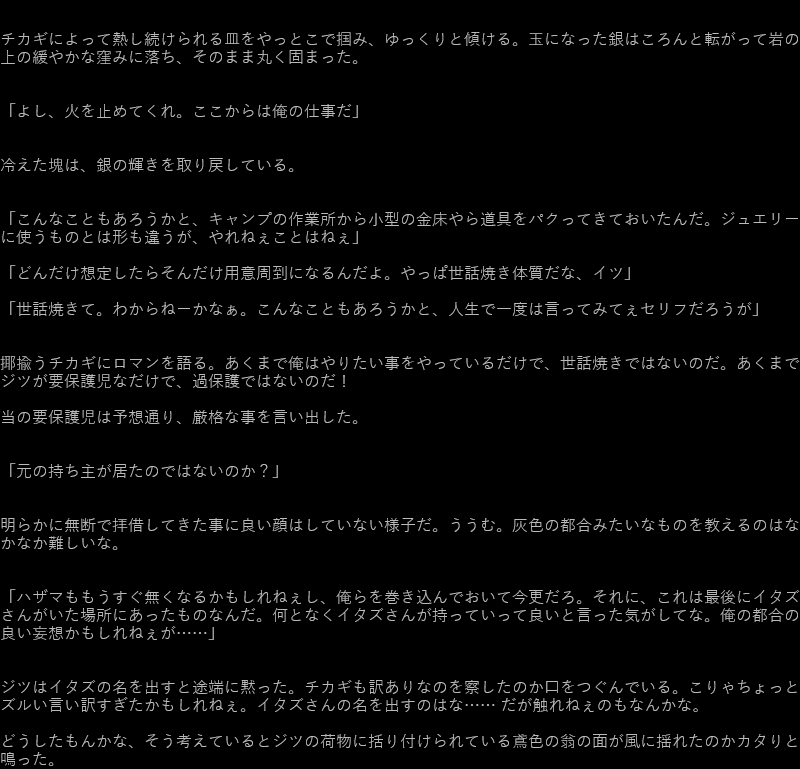
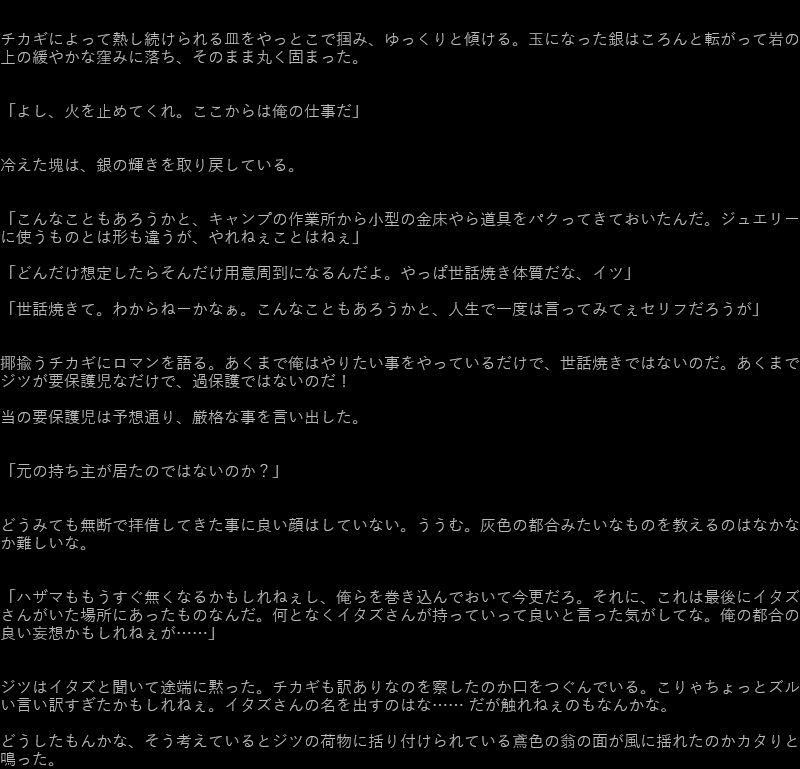
推敲

diff --git a/okiba/995/36/index.html b/okiba/995/36/index.html
@@ -63,7 +63,7 @@ body {
 
 神メロン。未知のすごいメロンのどの部位を誰が食べるのか…… それを決めるためにちょっとしたクジをした俺たちだが、この立つのもダルそうな男が一等を引き、続いてジツ、俺とは言えば最下位。
 
-こいつはクジを引くときには興味ないねみたいな顔をしていたくせに、今の様子を見ると満更でもなさそうだ。
+こいつはクジを引くときには興味ないねみたいな顔をしていたくせに、今の調子を見ると満更でもなさそうだ。
 
 ジツはその隣に座り、チカギがメロンの一番旨そうな部分を食べているのをじっと見ている。文句は言わない。思えばジツも感情豊かになったものだ。それとも俺がこいつの僅かな変化に気づくようになっただけだろうか。
 
@@ -86,11 +86,10 @@ body {
 「ほー？ よく分かんねーけど面白そうじゃん。」
 
 
-チカギが身を乗り出してくる。考えていたよりも興味あり気な様子だ。対してジツはいつもの調子でストレートに疑問を口にした。
+チカギが身を乗り出してくる。思っていたより興味ありそうな感じだ。対してジツはいつもの調子でストレートに疑問を口にした。
 
 
-「……異能を使わずに？　
-　凝った物を欲してる訳ではないが、何故、不要な労力を費やす？」
+「……異能を使わずに？ 凝った物を欲してる訳ではないが、何故、不要な労力を費やす？」
 
 
 不要な労力か。そこには多少物言いたい気持ちもあるが、くどくど説明するより経験して貰えばいいことだ。
@@ -139,7 +138,7 @@ body {
 「え、いいのかそれ、大事なモンじゃ……」
 
 
-ジツはうつむいたまま平坦な声で、チカギはあからさまに焦りを露わにして俺に問う。対照的な二人に、俺は努めていつもの調子で答えた。
+ジツは顔を伏せたまま平坦な声で、チカギはあからさまに焦りを露わにして俺に問う。対照的な二人に、俺は努めていつもの調子で答えた。
 
 
 「ああ、大事にしているツノの輪は残すし、高価なもんじゃねぇ。銀と、僅かの銅。一般的な銀の合金だ。純粋な銀ってのは柔らかすぎるからな」
@@ -220,9 +219,7 @@ body {
 
 
 
-無骨な皿を取り出して岩の上に置き、周囲を適当な岩でがっしりと囲む。この旅で何度も組んできた、焚火のかまどのように。
-
-この皿はリーゼント騒ぎの時に焼き物連中の所から拾ったものだ。クソ頑丈で都合よく釉でコーティングもされている。
+無骨な皿を取り出して岩の上に置き、周囲を適当な岩でがっしりと囲む。この旅で何度も組んできた、焚火のかまどのように。この皿はリーゼント騒ぎの時に焼き物連中の所から拾ったものだ。クソ頑丈で都合よく釉でコーティングもされている。
 
 次に金槌で先の戦闘で手に入れたハザマの生き物の牙を砕く。白い粉のようになった残骸を皿の上にほんの少しつまんだ。
 
@@ -239,7 +236,7 @@ body {
 チカギは作業する俺の手元をまじまじと見つめている。
 
 
-「そうだな、あんま良いの持ってねーし。さっき俺らで倒した蜥蜴の、ジツが剥いだ鱗かな。ほら、寄越せ。」
+「そうだな、あんま良いの持ってねーし。さっき俺らで倒した蜥蜴の、ジツが剥いだ鱗かな。ほら、寄越せ」
 
 
 ああ、あれか。
@@ -256,11 +253,9 @@ body {
 「あれなーー！忘れようがねぇぜ。未だに意味わからんもんアレ……」
 </div><div class="grid">
 
-マジで色々ありすぎたな、ハザマ……。あっさりとジツからチカギに渡された鱗を見れば確かにあのコイのものによく似ている。
+マジで色々ありすぎたな、ハザマ……。あっさりとジツからチカギに渡された鱗を見ると確かにあのコイのものによく似ている。
 
-チカギが指先に小さな火を灯し、鱗を照らす。光が四方八方に反射され煌めきを放った。
-
-「こうすると」と、光をさらに散らせるように鱗を揺らす。光の粒がそこらを走り回った。なんだっけ、サンキャッチャーか。あれっぽい。
+チカギが指先に小さな火を灯し、鱗を照らす。反射された光が煌めきとなってあたりに散らばった。タクトを振るうように腕を踊らせれば、光の粒がそこら中を飛び跳ね回る。なんだっけ、サンキャッチャーか。あれっぽい。
 
 
 「なんかさ、さっきイツがやってた……キラキラしてた異能？ 似てんなーと思ってさ」
@@ -296,11 +291,13 @@ body {
 「そいつの封を解いたら、二度と元には戻せない。花はまた時間を取り戻して生き始める。いずれ枯れて種を作る。それがどういうことか、わかってるんだろうな？」
 
 
-俺に責め立てられて、ジツは言葉を少しずつ紡いだ。
+気がつけば、俺はジツを責め立ていた。
+自分の口から出てしまった言葉の強さに驚いてはっとする。
+無音が二人の間を満たすと、ジツは言葉を少しずつ紡いだ。
 
 
 「……この世界が幻なのか、実在するのかは分からない。
-　だが、あるべき物はあるがままにするのなら────この花はこの世界に残して行かないといけないのだろう」
+　だが、あるべき物はあるがままにするのなら──この花はこの世界に残して行かないといけないのだろう」
 
 
 それは初めは、小さな声だった。だが、決して聞き間違えではない。
@@ -328,13 +325,13 @@ body {
 ふ、と笑いが溢れる。確かに、こんなんじゃチカギに過保護言われるのも仕方ねぇかもな。
 </div><div class="grid">
 
-「でも、そんなことはなかったんだな。正直安心した、ってのはおかしいか。ま、ジツがそうしたいと思う事を言ってくれて俺は嬉しいよ。もちろん、そいつの葉は少し頂いて銀に混ぜよう」
+「でも、そんなことはなかったんだな。正直安心した、ってのはおかしいか。ま、ジツがそうしたいと思う事を伝えてくれて俺は嬉しいよ。もちろん、そいつの葉は少し頂いて銀に混ぜよう」
 
 
 あたりを見回して考える。
 
 
-「そうだな、浜に植えたんじゃ塩で枯れちまうからな。この森ならいい感じなんじゃねぇか？」
+「植える場所も探さねぇとな。浜に植えたんじゃ塩で枯れちまう。この森ならいい感じなんじゃねぇか？」
 
 
 
@@ -351,7 +348,7 @@ body {
 俺に問われてチカギは自信ありげに答える。
 
 
-「ん。よく分かってんじゃん？　得意も得意。つってもこのハザマに来てから身に付いた異能だから、あんまり調節はやったこと無いな」
+「ん。よく分かってんじゃん？ 得意も得意。つってもこのハザマに来てから身に付いた異能だから、あんまり調節はやったこと無いな」
 
 
 ハザマでは俺の元の世界で使えていた術の体系はかなり制限されてしまっている。ここにはガスバーナーのような器具も高度な魔道具もなければ、俺は元々熱を扱う術が得意ではない。そのせいか異能としても殆ど扱えない。
@@ -365,7 +362,7 @@ body {
 「930℃って言われても分かんねーよ。青……とにかく青ければ良いか。」
 </div><div class="grid">
 
-まぁ、それもそうか。まずはやらせてみてだな。
+まぁ、それもそうか。まずはやってみてだな。
 
 
 ゆるりとチカギの手が伸ばされて。
@@ -375,7 +372,7 @@ body {
 「えー、青か、青……。飛ばさねーようにお前が見ててくれ」
 
 
-もちろんだ、そう答えて見守る。銀の色をみれば具合はわかる。
+もちろんだ、そう答えて見守る。銀の色で具合はわかる。
 
 少しの逡巡の後、これか？とチカギが呟いた。
 何かコツを見つけたのか炎はすっと青くなる。
@@ -400,7 +397,7 @@ body {
 「ああ。だが、ハザマじゃねぇ。異能でもねぇ。俺たちさ。チカギが使う炎だからさ。俺たちはいい感じ、だろ？」
 
 
-すかさず俺はそこに木材の棒を突っ込み、銀を掻き回す。棒は瞬く間に炭となって銀に含まれた酸素を奪った。
+すかさず俺は皿に木材の棒を突っ込み、銀を掻き回す。棒は瞬く間に炭となって銀に含まれた酸素を奪った。
 
 
 「そいつをこの一緒に熱くなった岩に流す。そのまま熱していてくれ」
@@ -430,13 +427,13 @@ body {
 「元の持ち主が居たのではないのか？」
 
 
-明らかに無断で拝借してきた事に良い顔はしていない様子だ。ううむ。灰色の都合みたいなものを教えるのはなかなか難しいな。
+どうみても無断で拝借してきた事に良い顔はしていない。ううむ。灰色の都合みたいなものを教えるのはなかなか難しいな。
 
 
 「ハザマももうすぐ無くなるかもしれねぇし、俺らを巻き込んでおいて今更だろ。それに、これは最後にイタズさんがいた場所にあったものなんだ。何となくイタズさんが持っていって良いと言った気がしてな。俺の都合の良い妄想かもしれねぇが……」
 
 
-ジツはイタズの名を出すと途端に黙った。チカギも訳ありなのを察したのか口をつぐんでいる。こりゃちょっとズルい言い訳すぎたかもしれねぇ。イタズさんの名を出すのはな…… だが触れねぇのもなんかな。
+ジツはイタズと聞いて途端に黙った。チカギも訳ありなのを察したのか口をつぐんでいる。こりゃちょっとズルい言い訳すぎたかもしれねぇ。イタズさんの名を出すのはな…… だが触れねぇのもなんかな。
 
 どうしたもんかな、そう考えているとジツの荷物に括り付けられている鳶色の翁の面が風に揺れたのかカタりと鳴った。
 </div><div class="grid">
@@ -521,7 +518,7 @@ body {
 「マジか。お幸せにな」
 
 
-ジツを見ればなんのことかわからないという様子で大人しくしている。はーー。いや、まぁいい。
+ジツを見ればなんのことかわからないという顔で大人しくしている。はーー。いや、まぁいい。
 
 
 「さしずめこれは友情の印ってところか。ま、深いことは考えねぇ。っと……」
@@ -538,7 +535,7 @@ body {
 
 「ほんのりピンク色になる程度に熱してくれ。当たり前だが溶かしてしまうような高温はダメだ。500℃くらいだ。つってもわからねーだろうから様子見しながら調整して……」
 
-「だから温度で言われても分かんねーって。ま、俺はイツの言う通りに燃やすだけだよ」
+「だから温度で言われても分かんねーって。イツの言う通りにやるから指示しろ」
 
 「ジツはどうだ？」
 
@@ -584,10 +581,10 @@ body {
 「お前らがどの指にするか悩んでる間に作っておいたんだ」
 
 
-チカギの軽口にそう答える。口ではそう言いながら、次はどうするのか気になって仕方がないという様子だ。
+チカギの軽口にそう答える。口ではそう言いながら、次はどうするのか気になってるのが丸わかりだ。
 
 
-またまた叩かれ、硬い木の棒に沿って銀の塊だったものは曲がってゆく。そうして、リングの形になった。銀の輪だ。
+またまた叩かれ、硬い木の棒に沿って塊だったものは曲がってゆく。そうして、リングの形になった。銀の輪だ。
 
 
 「サイズも問題なさそうだ。で、このままだと本当の意味では繋がってない。わかるだろ？ だから溶かして繋げる」
@@ -671,7 +668,9 @@ body {
 「ん？ 同じように拳を打ち合わせるんだ、ほら！」
 
 
-たった今集中の糸が途切れた。そんな様子でジツは大きく息を吐きだす。
+ジツの纏う、張り詰めた空気がふっと溶けてゆく。
+どこか遠い所にあった眼差しが、ここに帰ってきたかのようで。
+俺を見るなり、ジツは大きく息を吐きだした。
 
 
 「……決闘の時もそうだったが、打ち合うのが余程好きなのだな」
@@ -827,7 +826,7 @@ body {
 自分のリングを右のツノにはめる。古い輪と俺たちの作ったばかりのそれが触れ合う。遠い過去になっても、知るものが居なくなっても、俺さえもが忘れそうになっても。決してなかった事にはしたくない。そう思うものを輪にして俺はここに刻んできた。
 
 
-「俺たちは、いい感じだし。俺はそう感じる自分を誇りに思う。こんなハザマの果てまでありがとうな。皆が、いなければ……　俺はここまで来ることはできなかった」
+「俺たちは、いい感じだし。俺はそう感じる自分を誇りに思う。こんなハザマの果てまでありがとうな。皆が、いなければ…… 俺はここまで来ることはできなかった」
 </div><div class="grid">
 
 
@@ -846,7 +845,7 @@ body {
 「なんか湿っぽくなっちまったな。こんな海だがとりま、砂浜を走るか！ 来い！ ジツ、チカギ！」
 
 
-何を言っても言葉じゃ足りない気がして、俺は赤黒い海が波打つ砂浜に走り出した。
+どんな言葉でも足りない気がして、俺は赤黒い海が波打つ砂浜に走り出した。
 
 
 
